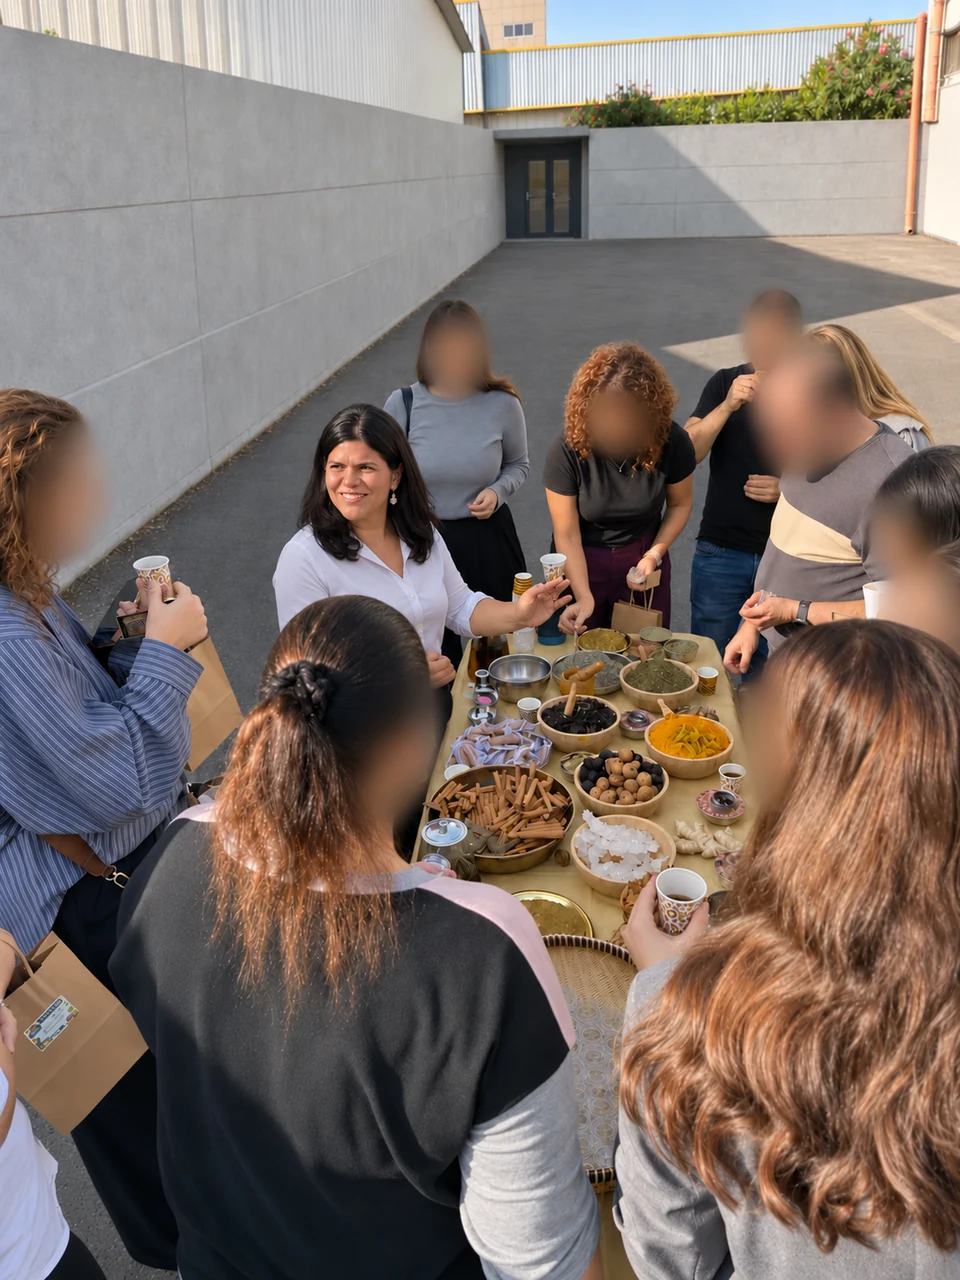
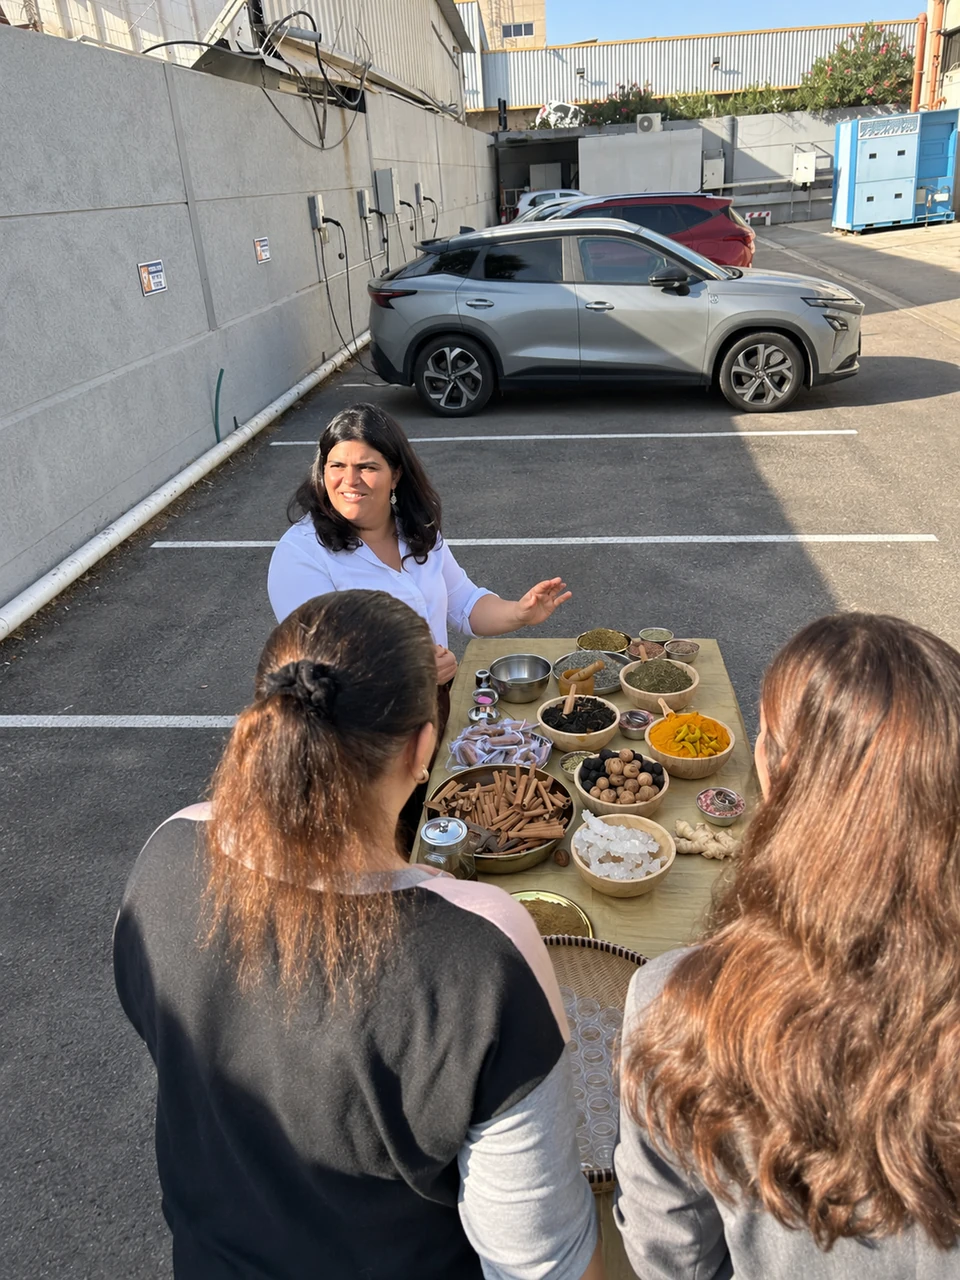
Make Timora privacy edits more natural

diff --git a/corporate-wellness-lectures.html b/corporate-wellness-lectures.html
@@ -50,7 +50,7 @@
     ],
     "serviceType": "דוכן לונג׳ביטי, איורוודה וטעימות לאירועים, ימי הפעלה וחברות הפקה",
     "description": "דוכני לונג׳ביטי על דרך המשי לחברות הפקה ולאירועים: חליטות, תבלינים וטעימות עם ענבל הנסב, מניסיונה כמטפלת באיורוודה וברפואה פרסית. הצעה מותאמת לאירוע.",
-    "image": "https://vedica-ayurveda.co.il/assets/corporate-timora-inbal-retouched-v3.webp?v=privacy-20261117",
+    "image": "https://vedica-ayurveda.co.il/assets/corporate-timora-inbal-retouched-v3.webp?v=natural-privacy-20261117",
     "provider": {
       "@type": "Organization",
       "@id": "https://vedica-ayurveda.co.il/#organization",
@@ -236,7 +236,7 @@
         </div>
       </div>
       <figure class="stall-hero-photo stall-hero-photo--timora">
-<img src="assets/corporate-timora-inbal-retouched-v3.webp?v=privacy-20261117" alt="ענבל הנסב משוחחת עם משתתפים בעמדת חליטות ותבלינים באירוע של תימורה" width="960" height="1280" fetchpriority="high">
+<img src="assets/corporate-timora-inbal-retouched-v3.webp?v=natural-privacy-20261117" alt="ענבל הנסב מאחורי דוכן החליטות והתבלינים באירוע של תימורה" width="960" height="1280" fetchpriority="high">
 <figcaption>ענבל בעמדת החליטות והתבלינים באירוע של תימורה (Timora)</figcaption>
 </figure>
     </section>
@@ -298,9 +298,9 @@
         <p>טעימות ושיחה עם ענבל באירוע של <a href="https://timora-fund.co.il/" target="_blank" rel="noopener noreferrer">תימורה, קרן נדל״ן</a>. המשתתפים ניגשו לשולחן, הכירו את חומרי הגלם, טעמו חליטות ושאלו שאלות — מפגש פתוח שמחבר בין אנשים, טעמים וסיפורים.</p>
       </div>
       <div class="tour-story__photos stall-event-gallery timora-event-gallery">
-        <figure><img src="assets/corporate-timora-guest-conversation-v3.webp?v=privacy-20261117" alt="ענבל מסבירה למשתתפים סביב שולחן החליטות והתבלינים באירוע של תימורה" width="960" height="1280" loading="lazy" decoding="async"><figcaption>עוצרים ליד הדוכן, טועמים ושואלים את ענבל.</figcaption></figure>
+        <figure><img src="assets/corporate-timora-guest-conversation-v3.webp?v=natural-privacy-20261117" alt="ענבל מסבירה למשתתפים סביב שולחן החליטות והתבלינים באירוע של תימורה" width="960" height="1280" loading="lazy" decoding="async"><figcaption>עוצרים ליד הדוכן, טועמים ושואלים את ענבל.</figcaption></figure>
         <figure><img src="assets/corporate-timora-herbs-spices.webp" alt="קערות תבלינים, עלי חליטה, מקלות קינמון וקנקן תה על שולחן הדוכן באירוע תימורה" width="960" height="1280" loading="lazy" decoding="async"><figcaption>צבעים, ריחות וחומרי גלם שמזמינים להכיר מקרוב.</figcaption></figure>
-        <figure><img src="assets/corporate-timora-event-stand.webp?v=privacy-20261117" alt="עמדת החליטות והתבלינים במרחב האירוע של תימורה, עם אורחים שטועמים ומשוחחים" width="960" height="1280" loading="lazy" decoding="async"><figcaption>עמדה פתוחה שמשתלבת במרחב האירוע ובקצב של האורחים.</figcaption></figure>
+        <figure><img src="assets/corporate-timora-event-stand.webp?v=natural-privacy-20261117" alt="עמדת החליטות והתבלינים במרחב האירוע של תימורה, עם אורחים שטועמים ומשוחחים" width="960" height="1280" loading="lazy" decoding="async"><figcaption>עמדה פתוחה שמשתלבת במרחב האירוע ובקצב של האורחים.</figcaption></figure>
       </div>
       <p class="stall-gallery-note">מהדוכן באירוע של תימורה. הרכב הטעימות והיקף הפעילות באירוע שלכם יתואמו מראש.</p>
       <div class="lecture-actions"><a href="#production-companies" class="lecture-button" data-analytics-event="corporate_production_quote_click" data-cta-location="timora-event-production">לתיאום דוכן לאירוע שלכם</a></div>

diff --git a/corporate-ayurveda-wellness-tel-aviv.html b/corporate-ayurveda-wellness-tel-aviv.html
@@ -50,7 +50,7 @@
     ],
     "serviceType": "Longevity-themed Ayurveda tasting stands for events, conferences and production companies",
     "description": "Silk Road-inspired event stands with infusions, spices and tastings, drawing on Inbal Hanasab’s experience as an Ayurveda and Persian medicine practitioner.",
-    "image": "https://vedica-ayurveda.co.il/assets/corporate-timora-inbal-retouched-v3.webp?v=privacy-20261117",
+    "image": "https://vedica-ayurveda.co.il/assets/corporate-timora-inbal-retouched-v3.webp?v=natural-privacy-20261117",
     "provider": {
       "@type": "Organization",
       "@id": "https://vedica-ayurveda.co.il/#organization",
@@ -215,7 +215,7 @@
 </div>
 </div>
 <figure class="stall-hero-photo stall-hero-photo--timora">
-<img src="assets/corporate-timora-inbal-retouched-v3.webp?v=privacy-20261117" alt="Inbal Hanasab speaking with guests at the herbal infusion and spice stand at a Timora event" width="960" height="1280" fetchpriority="high">
+<img src="assets/corporate-timora-inbal-retouched-v3.webp?v=natural-privacy-20261117" alt="Inbal Hanasab behind the herbal infusion and spice stand at a Timora event" width="960" height="1280" fetchpriority="high">
 <figcaption>Inbal at the herbal infusion and spice stand at a Timora event</figcaption>
 </figure>
 </section>
@@ -269,9 +269,9 @@
 <p>Tastings and conversation with Inbal at an event for <a href="https://timora-fund.co.il/" rel="noopener noreferrer" target="_blank">Timora, a real estate fund</a>. Guests stopped by the table, explored the ingredients, tasted infusions and asked questions: an open experience connecting people, flavours and stories.</p>
 </div>
 <div class="tour-story__photos stall-event-gallery timora-event-gallery">
-<figure><img alt="Inbal explaining herbal infusions and spices to guests gathered around the tasting table at the Timora event" decoding="async" height="1280" loading="lazy" src="assets/corporate-timora-guest-conversation-v3.webp?v=privacy-20261117" width="960"/><figcaption>Guests stop by, taste and ask Inbal questions.</figcaption></figure>
+<figure><img alt="Inbal explaining herbal infusions and spices to guests gathered around the tasting table at the Timora event" decoding="async" height="1280" loading="lazy" src="assets/corporate-timora-guest-conversation-v3.webp?v=natural-privacy-20261117" width="960"/><figcaption>Guests stop by, taste and ask Inbal questions.</figcaption></figure>
 <figure><img alt="Bowls of spices, infusion herbs, cinnamon sticks and a teapot on the stand at the Timora event" decoding="async" height="1280" loading="lazy" src="assets/corporate-timora-herbs-spices.webp" width="960"/><figcaption>Colours, aromas and ingredients to discover up close.</figcaption></figure>
-<figure><img alt="The herbal infusion and spice stand in the Timora event space, with guests tasting and talking" decoding="async" height="1280" loading="lazy" src="assets/corporate-timora-event-stand.webp?v=privacy-20261117" width="960"/><figcaption>An open stand that fits the event space and the guests’ pace.</figcaption></figure>
+<figure><img alt="The herbal infusion and spice stand in the Timora event space, with guests tasting and talking" decoding="async" height="1280" loading="lazy" src="assets/corporate-timora-event-stand.webp?v=natural-privacy-20261117" width="960"/><figcaption>An open stand that fits the event space and the guests’ pace.</figcaption></figure>
 </div>
 <p class="stall-gallery-note">From the stand at a Timora event. Tastings and the scope of your event’s activity will be agreed in advance.</p>
 <div class="lecture-actions"><a class="lecture-button" data-analytics-event="corporate_production_quote_click" data-cta-location="timora-event-production" href="#production-companies">Plan a stand for your event</a></div>

diff --git a/workshops.html b/workshops.html
@@ -454,7 +454,7 @@
 
    <div class="workshop-list">
     <article class="workshop-offer">
-     <img src="assets/corporate-timora-inbal-retouched-v3.webp?v=privacy-20261117" class="workshop-offer__image" alt="ענבל בעמדת החליטות והתבלינים באירוע של תימורה" loading="lazy" width="960" height="1280">
+     <img src="assets/corporate-timora-inbal-retouched-v3.webp?v=natural-privacy-20261117" class="workshop-offer__image" alt="ענבל בעמדת החליטות והתבלינים באירוע של תימורה" loading="lazy" width="960" height="1280">
      <div class="workshop-offer__content">
       <span class="workshop-offer__status">לחברות הפקה, ימי הפעלה וכנסים</span>
       <h3><a href="corporate-wellness-lectures.html" data-analytics-event="corporate_stall_page_click" data-cta-location="workshops-corporate-card">דוכני לונג׳ביטי ואיורוודה לאירועים</a></h3>
